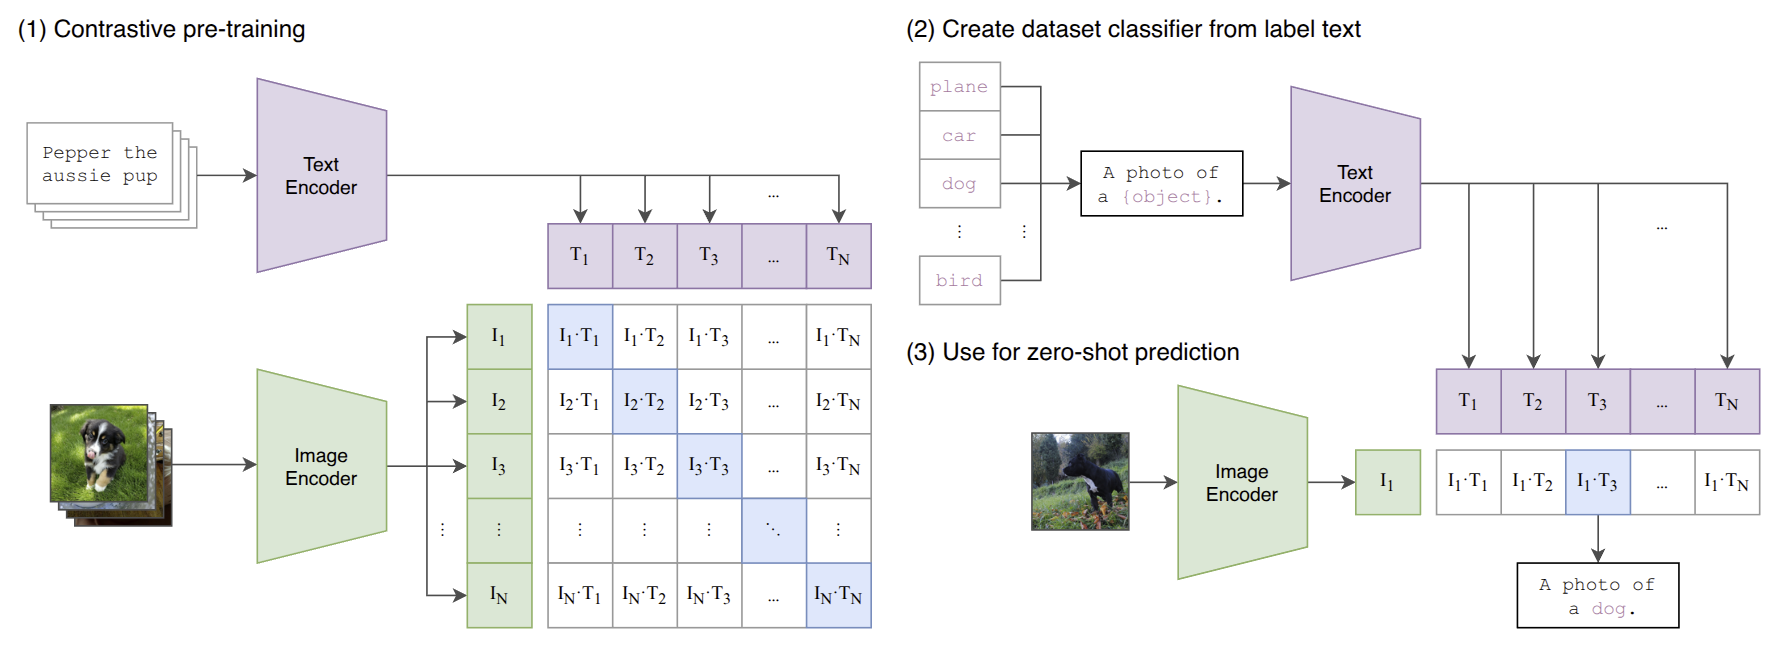
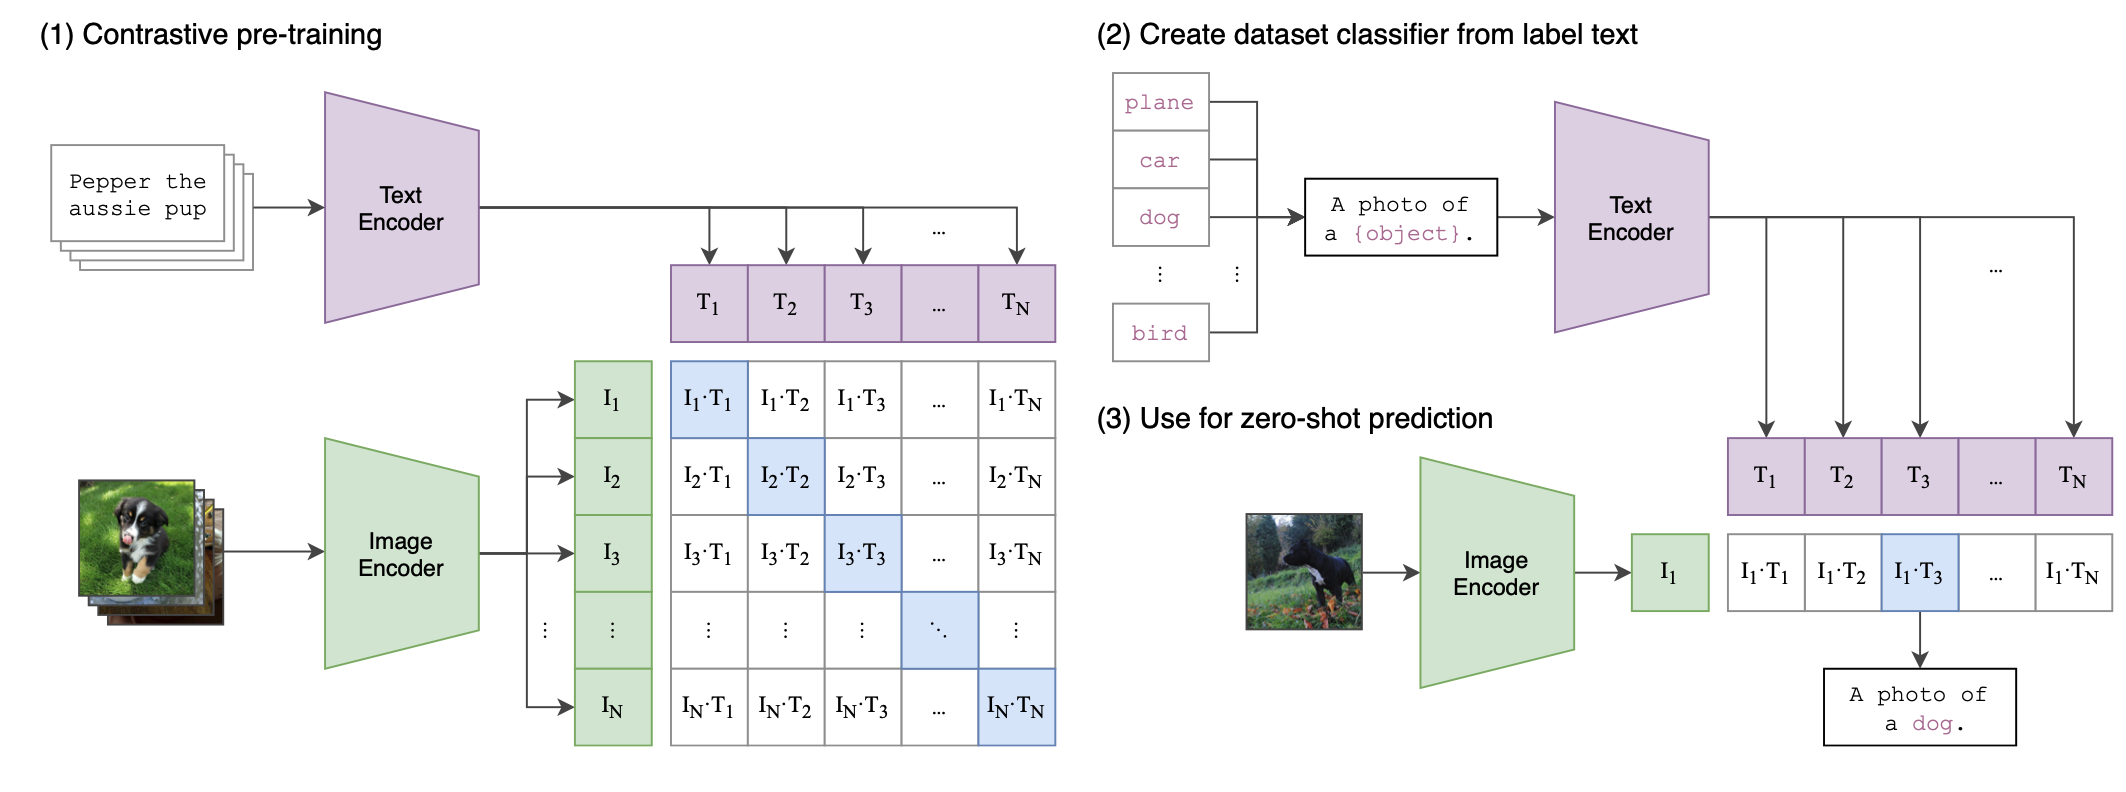
chore: Add paper note

diff --git a/README.md b/README.md
@@ -1,0 +1,4 @@
+# CLIP
+
+- [GitHub](https://github.com/hayatoshibahara/clip)
+- [Google Colab](https://colab.research.google.com/github/hayatoshibahara/clip/blob/main/main.ipynb)
